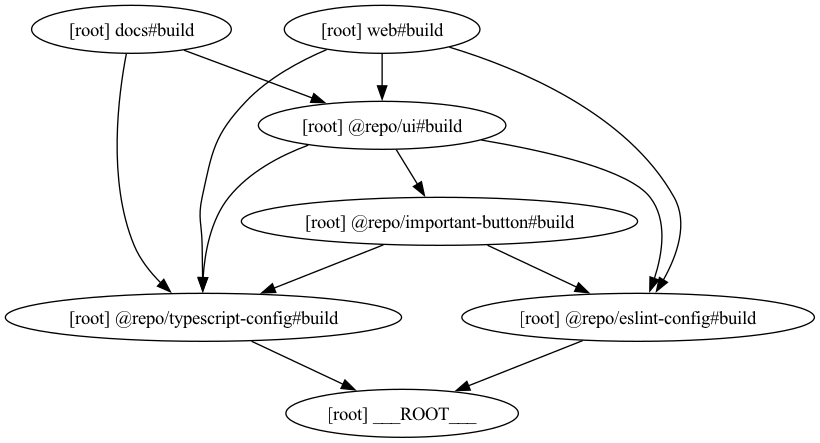
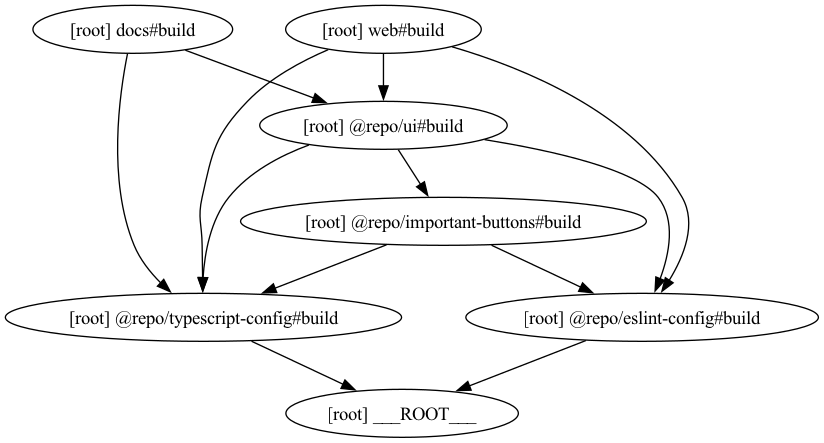
working nested packages for build & dev

diff --git a/packages/important-buttons/src/components/SlightlyLessImportantButton/SlightlyLessImportantButton.tsx b/packages/important-buttons/src/components/SlightlyLessImportantButton/SlightlyLessImportantButton.tsx
@@ -1,0 +1,21 @@
+import styles from "./SlightlyLessImportantButton.module.css";
+
+interface SlightlyLessImportantButtonProps
+  extends React.RefAttributes<HTMLButtonElement> {
+  children?: React.ReactNode;
+  variant?: "primary" | "secondary";
+  disabled?: boolean;
+}
+
+export function SlightlyLessImportantButton({
+  children,
+  variant = "primary",
+  disabled,
+  ...attributes
+}: SlightlyLessImportantButtonProps) {
+  return (
+    <button {...attributes} disabled={disabled} className={styles[variant]}>
+      SLIGHTLY LESS IMPORTANT
+    </button>
+  );
+}

diff --git a/packages/ui/src/components/TestComponent/TestComponent.tsx b/packages/ui/src/components/TestComponent/TestComponent.tsx
@@ -1,4 +1,7 @@
-import { ImportantButton } from "@repo/important-button";
+import {
+  ImportantButton,
+  SlightlyLessImportantButton,
+} from "@repo/important-buttons";
 import styles from "./TestComponent.module.css";
 
 interface TestComponentProps extends React.RefAttributes<HTMLDivElement> {
@@ -18,6 +21,7 @@ export function TestComponent({
       {children}
       {disabled ? " disabled" : " enabled"}
       <ImportantButton variant="secondary" />
+      <SlightlyLessImportantButton variant="secondary" />
     </div>
   );
 }

diff --git a/apps/web/src/main.tsx b/apps/web/src/main.tsx
@@ -6,7 +6,7 @@ import { TestComponent } from "@repo/ui";
 ReactDOM.createRoot(document.getElementById("root")!).render(
   <React.StrictMode>
     <div>
-      <TestComponent variant="secondary">Hello World2 Matt</TestComponent>
+      <TestComponent variant="secondary">Hello World3 Matt</TestComponent>
     </div>
   </React.StrictMode>
 );

diff --git a/packages/important-buttons/src/components/SlightlyLessImportantButton/SlightlyLessImportantButton.module.css b/packages/important-buttons/src/components/SlightlyLessImportantButton/SlightlyLessImportantButton.module.css
@@ -1,0 +1,10 @@
+.primary {
+  background-color: yellow;
+  color: #fff;
+  fill: #fff;
+}
+.secondary {
+  background-color: purple;
+  color: #fff;
+  fill: #fff;
+}

diff --git a/packages/important-buttons/src/components/index.ts b/packages/important-buttons/src/components/index.ts
@@ -1,0 +1,2 @@
+export * from "./ImportantButton";
+export * from "./SlightlyLessImportantButton";

diff --git a/packages/important-buttons/src/components/SlightlyLessImportantButton/index.ts b/packages/important-buttons/src/components/SlightlyLessImportantButton/index.ts
@@ -1,0 +1,1 @@
+export * from "./SlightlyLessImportantButton";
